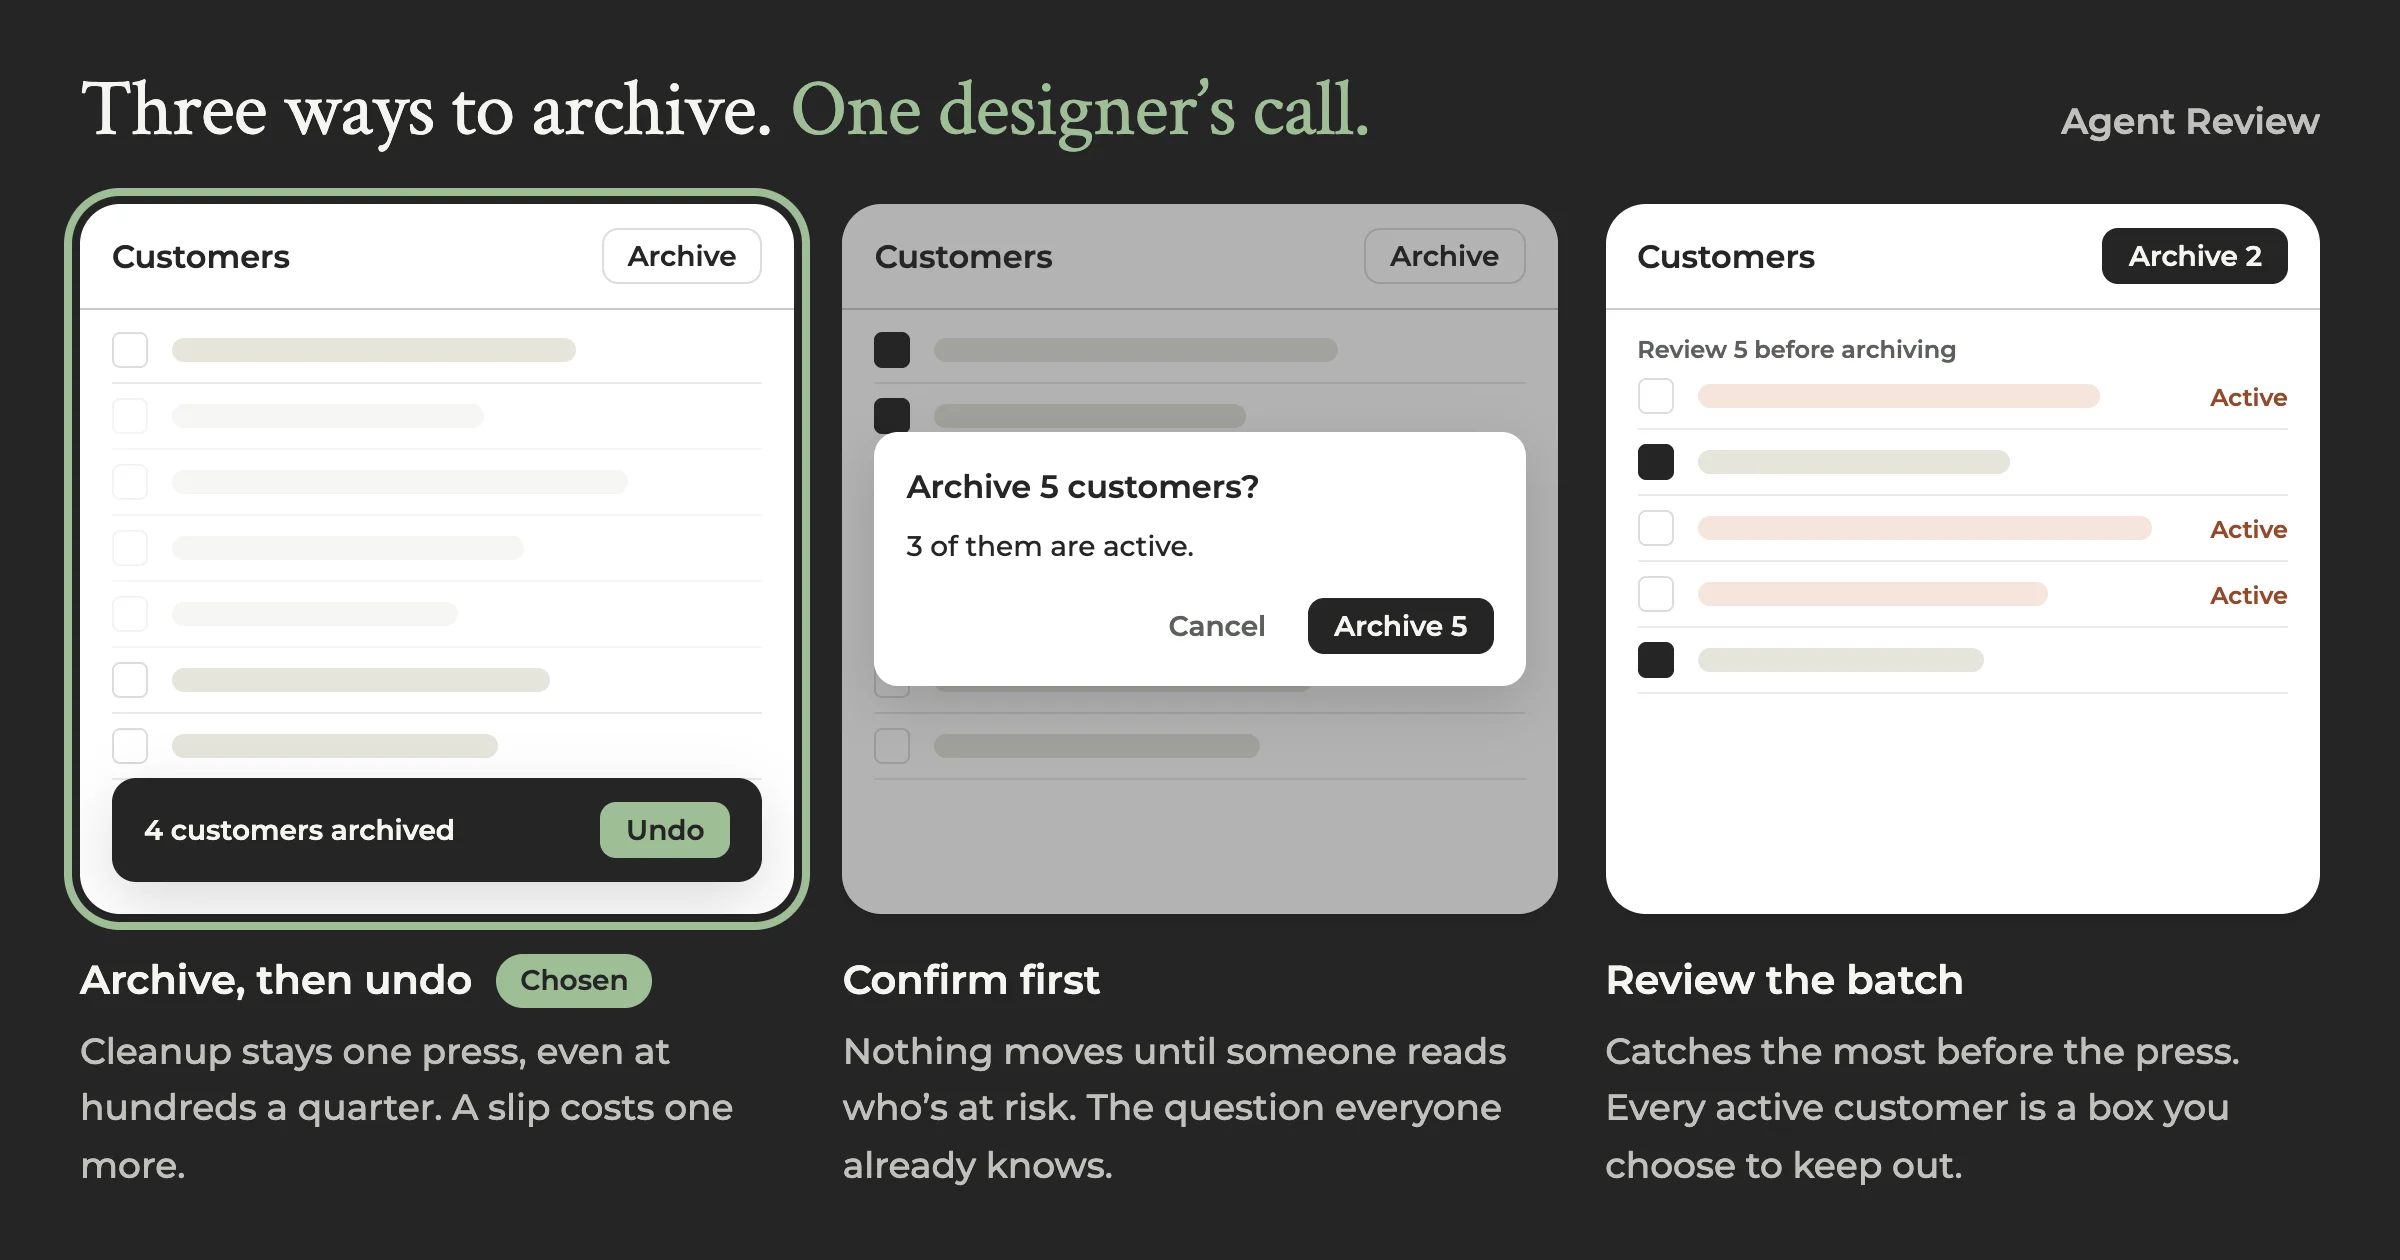
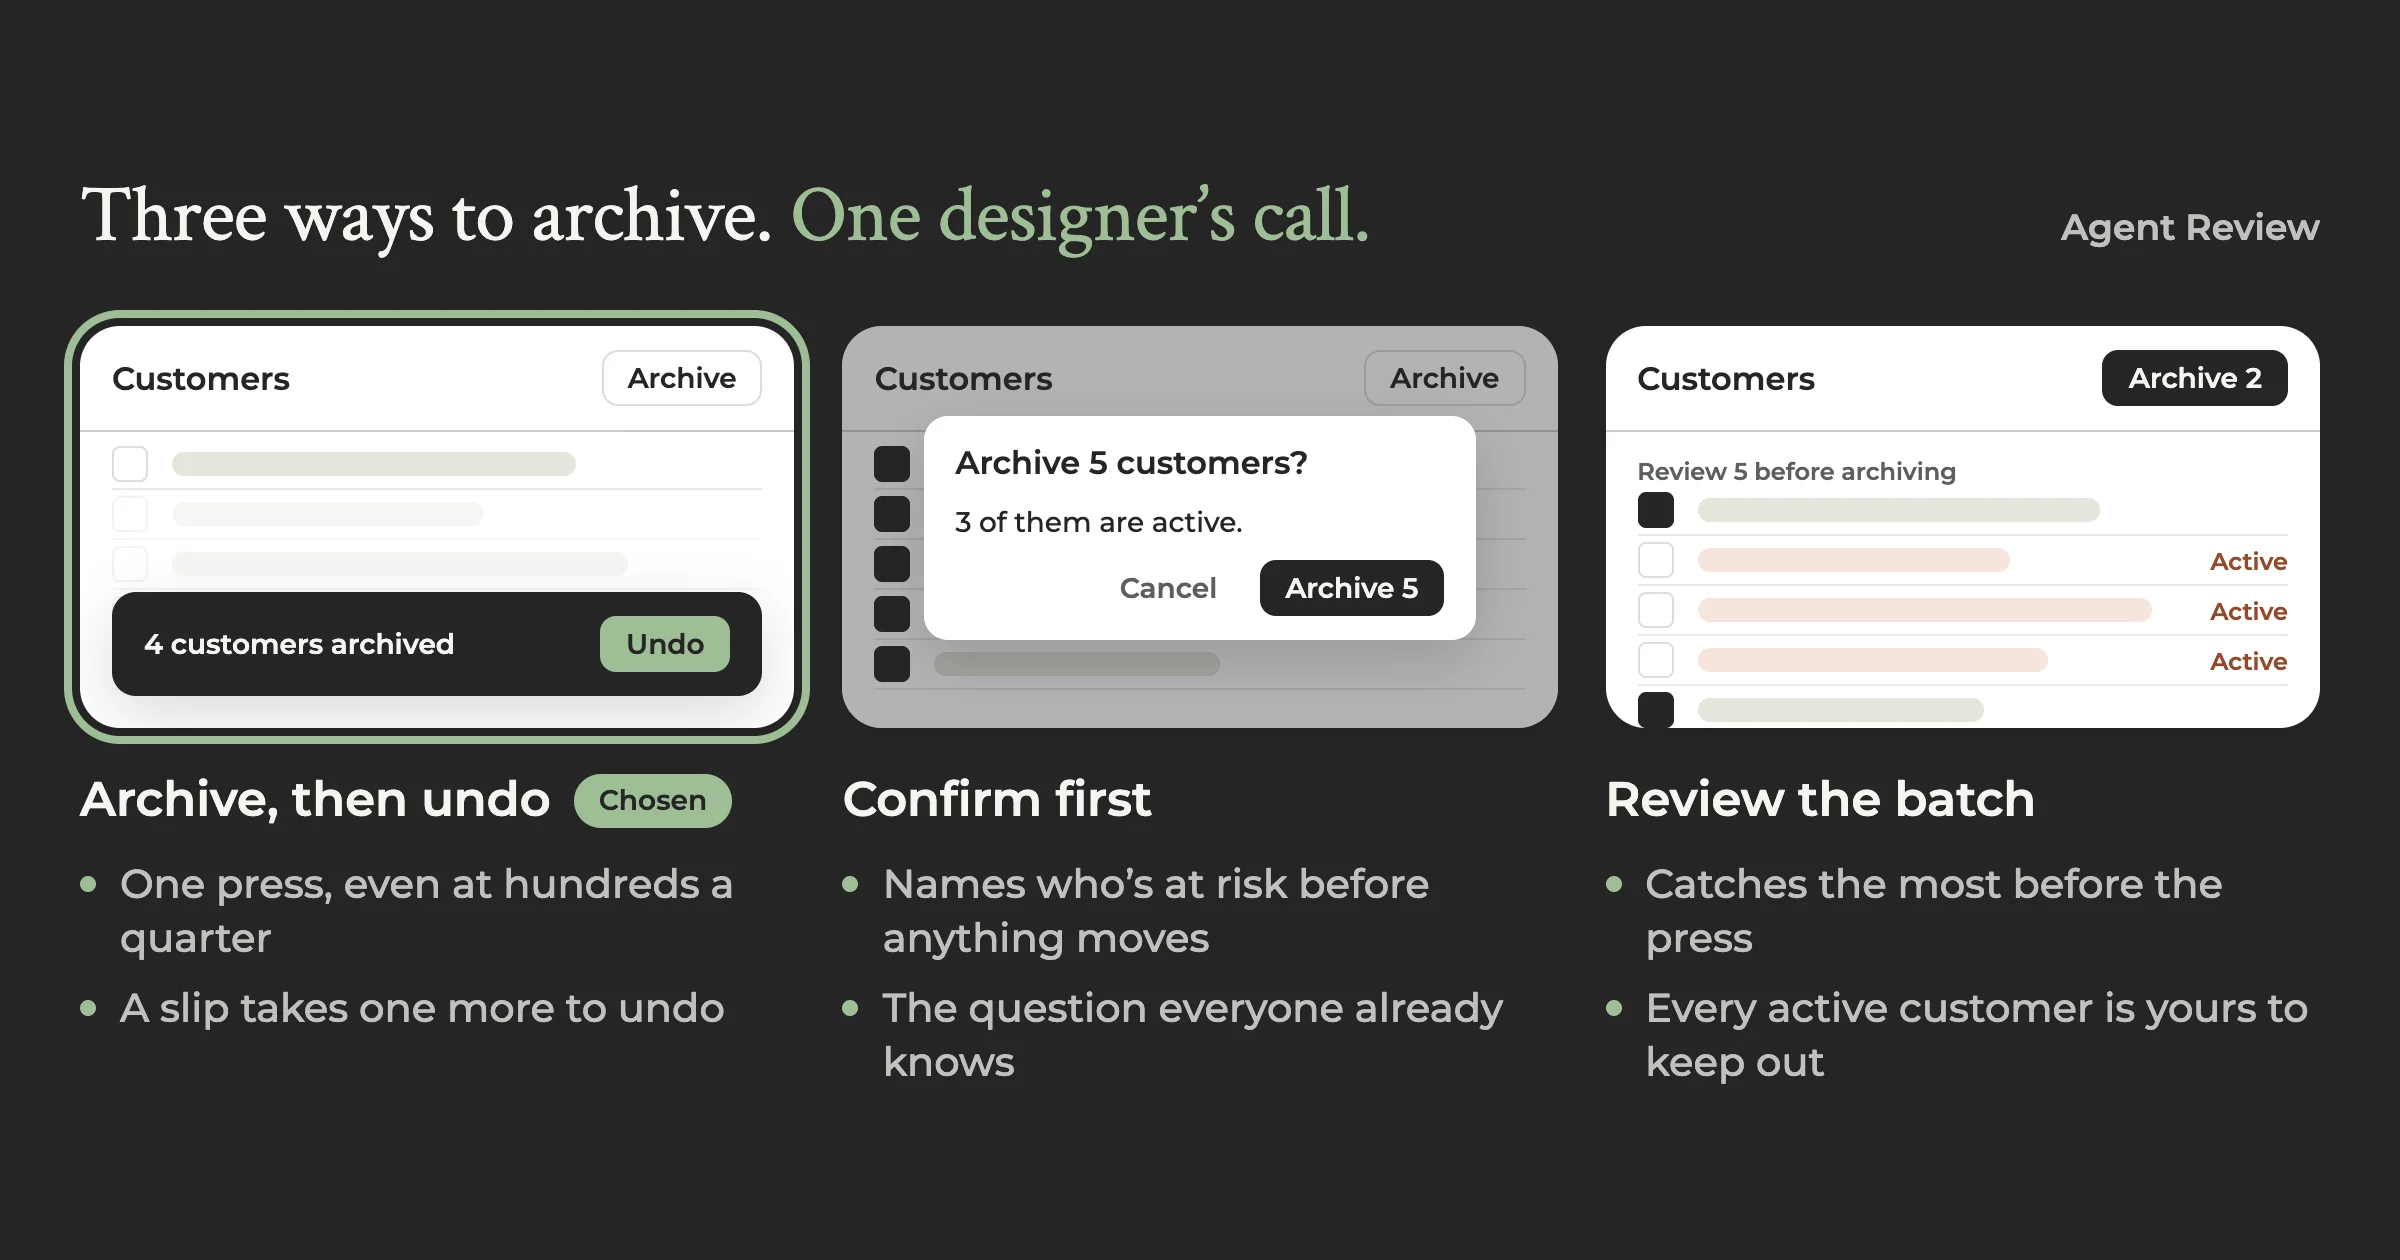
The Agent Review card's three screens are 16:9, the labels 24px and the case for each two 20px bullets where it was a 16px paragraph, and the whole composition sits centered with 64px around it. Card ?v=4; share card and og image re-rendered

diff --git a/lab/index.html b/lab/index.html
@@ -289,7 +289,7 @@
           </li>
           <li class="writing-item">
             <a class="writing-link" href="agent-review.html">
-              <img class="writing-card" src="../img/lab/agent-review-cycle-card.webp?v=3" width="1280" height="720" alt="" decoding="async" />
+              <img class="writing-card" src="../img/lab/agent-review-cycle-card.webp?v=4" width="1280" height="720" alt="" decoding="async" />
               <div class="writing-text">
                 <h3 class="writing-title">Agent Review: design judgment when agents join the team</h3>
                 <p class="writing-dek">A prototype that follows one feature from a support ticket to what ships, with a coding agent doing the building. Its scenarios are simulated.</p>

diff --git a/index.html b/index.html
@@ -904,7 +904,7 @@
               </p>
             </div>
             <a class="case-thumb" href="lab/agent-review.html" aria-label="Read the Agent Review case study: three ways to archive, one designer&rsquo;s call">
-              <img src="img/lab/agent-review-cycle-card.webp?v=3" width="2560" height="1440" alt="" loading="lazy" decoding="async" />
+              <img src="img/lab/agent-review-cycle-card.webp?v=4" width="2560" height="1440" alt="" loading="lazy" decoding="async" />
             </a>
           </div>
         </div>
